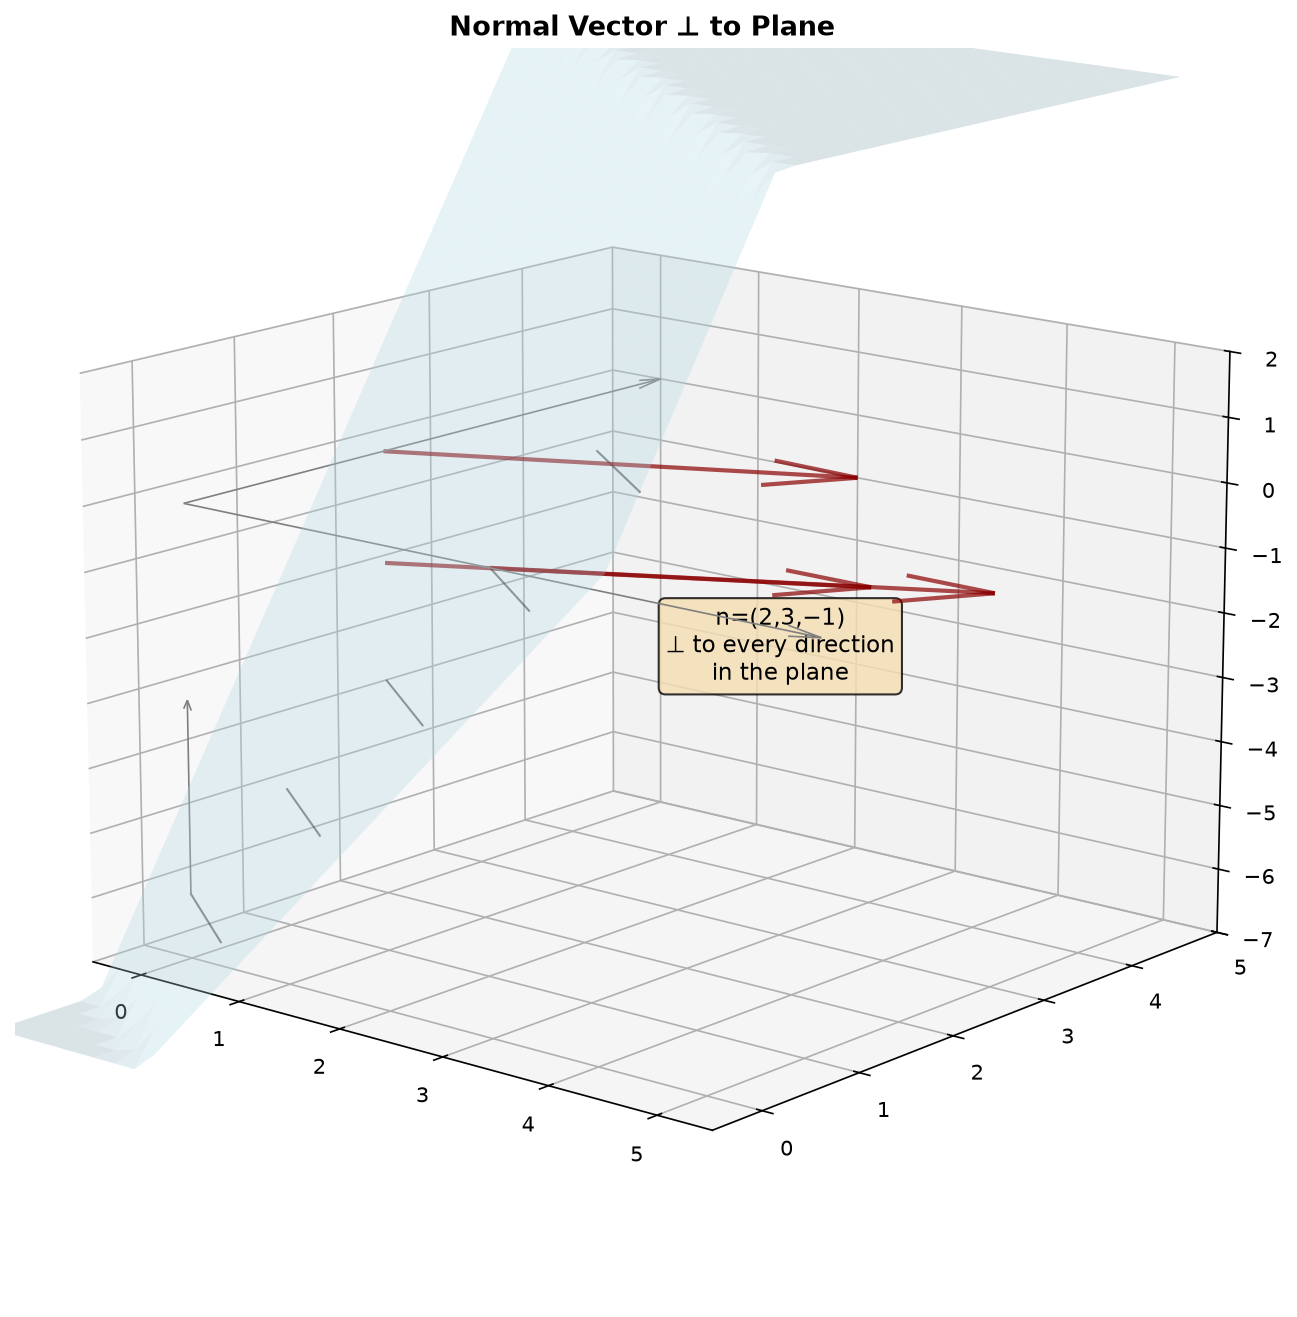
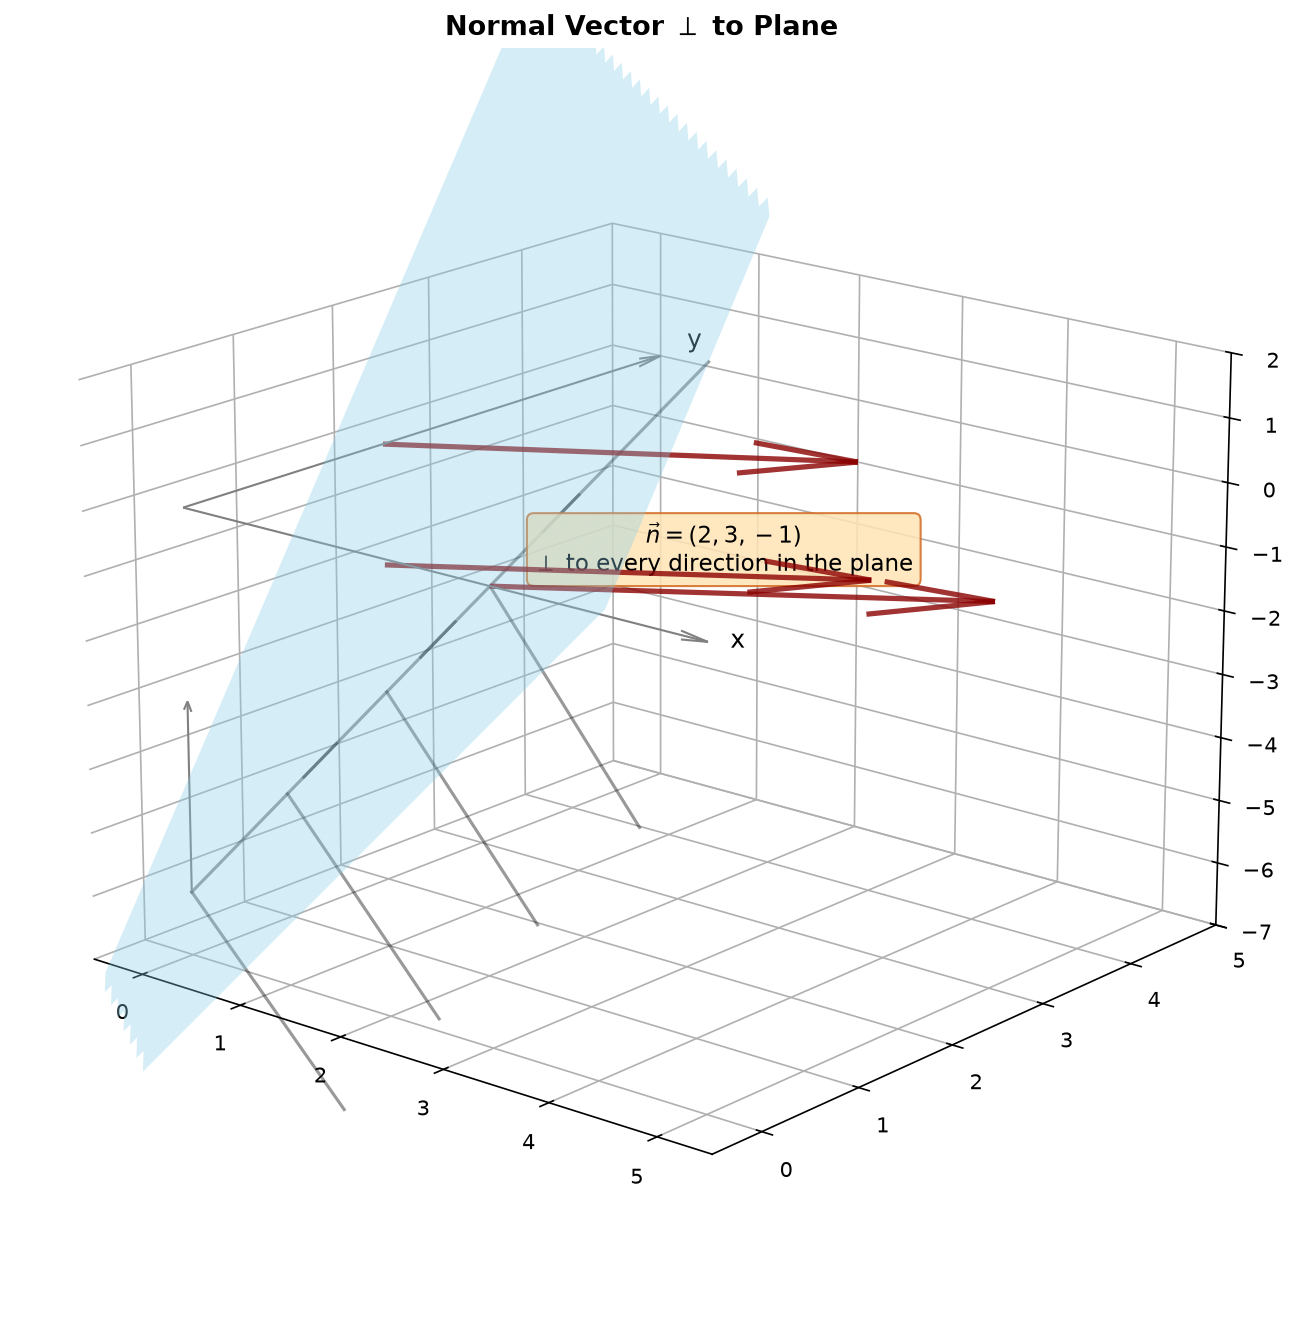
patch

diff --git a/math/sessions/phase2/graphs/0720/gen_9c.py b/math/sessions/phase2/graphs/0720/gen_9c.py
@@ -158,57 +158,75 @@ def fig_plane_intercept():
     fig = plt.figure(figsize=(11, 9))
     ax = fig.add_subplot(111, projection='3d')
     # Plane: 2x+3y-z=6  => z = 2x+3y-6
-    x = np.linspace(0, 5, 30); y = np.linspace(0, 4, 30)
+    # High-resolution mesh for smooth rendering
+    x = np.linspace(0, 5, 80); y = np.linspace(0, 4, 80)
     X, Y = np.meshgrid(x, y)
     Z = 2*X + 3*Y - 6
-    Z = np.clip(Z, -7, 5)
-    ax.plot_surface(X, Y, Z, alpha=0.4, color='lightblue')
+    # Only show plane where it's within the visible z-range
+    plane = np.ones_like(Z)
+    plane[(Z < -7) | (Z > 5)] = np.nan
+    ax.plot_surface(X, Y, plane * Z, rstride=1, cstride=1, alpha=0.5, 
+                    color='#87CEEB', shade=True, antialiased=True, edgecolor='none')
     # Intercepts
-    ax.plot([3],[0],[0],'ro',markersize=10)
-    ax.plot([0],[2],[0],'go',markersize=10)
-    ax.plot([0],[0],[-6],'mo',markersize=10)
-    ax.text(3.3,0,0.5,'(3,0,0)',fontsize=10,color='red')
-    ax.text(0,2.3,0.5,'(0,2,0)',fontsize=10,color='green')
-    ax.text(0,0.3,-6,'(0,0,−6)',fontsize=10,color='magenta')
+    ax.plot([3],[0],[0],'ro',markersize=12, zorder=10)
+    ax.plot([0],[2],[0],'go',markersize=12, zorder=10)
+    ax.plot([0],[0],[-6],'mo',markersize=12, zorder=10)
+    # Label intercepts with nice offset
+    ax.text(3.3,-0.2,-0.3,'(3,0,0)',fontsize=11,color='red',fontweight='bold')
+    ax.text(-0.3,2.3,-0.3,'(0,2,0)',fontsize=11,color='green',fontweight='bold')
+    ax.text(-0.3,0.3,-6.3,'(0,0,−6)',fontsize=11,color='magenta',fontweight='bold')
     # Normal vector
-    ax.quiver(1,1,-1, 2,3,-1, color='darkred', lw=3, arrow_length_ratio=0.15)
-    ax.text(2,3,-2,'n=(2,3,−1)',fontsize=11,color='darkred',fontweight='bold')
+    ax.quiver(1,1,-1, 2,3,-1, color='darkred', lw=3, arrow_length_ratio=0.2)
+    ax.text(2.2,3.2,-2.2,'$\\vec{n}=(2,3,-1)$',fontsize=11,color='darkred',fontweight='bold')
     # Axes
-    ax.quiver(0,0,0, 6,0,0, color='gray', arrow_length_ratio=0.05, lw=0.8)
-    ax.quiver(0,0,0, 0,5,0, color='gray', arrow_length_ratio=0.05, lw=0.8)
-    ax.quiver(0,0,0, 0,0,5, color='gray', arrow_length_ratio=0.05, lw=0.8)
+    ax.quiver(0,0,0, 6,0,0, color='gray', arrow_length_ratio=0.05, lw=1)
+    ax.quiver(0,0,0, 0,5,0, color='gray', arrow_length_ratio=0.05, lw=1)
+    ax.quiver(0,0,0, 0,0,5, color='gray', arrow_length_ratio=0.05, lw=1)
+    ax.text(5.8,0,0,'x',fontsize=12); ax.text(0,5.3,0,'y',fontsize=12); ax.text(0,0,5.5,'z',fontsize=12)
     ax.set_xlim(0,5.5); ax.set_ylim(0,5); ax.set_zlim(-7,1)
-    ax.set_xlabel('X'); ax.set_ylabel('Y'); ax.set_zlabel('Z')
-    ax.set_title('Plane: 2x+3y−z=6\nIntercepts + Normal Vector', fontsize=13, fontweight='bold')
-    ax.view_init(elev=20, azim=-55)
+    ax.set_xlabel(''); ax.set_ylabel(''); ax.set_zlabel('')
+    ax.set_title('Plane: $2x+3y-z=6$ — Intercepts + Normal Vector', fontsize=13, fontweight='bold')
+    ax.view_init(elev=22, azim=-55)
+    ax.xaxis.pane.fill = False; ax.yaxis.pane.fill = False; ax.zaxis.pane.fill = False
+    ax.xaxis.pane.set_edgecolor('w'); ax.yaxis.pane.set_edgecolor('w'); ax.zaxis.pane.set_edgecolor('w')
     save('9c-plane-intercept.png')
 
 # ============================================================
 # 9c-plane-normal.png
 # ============================================================
 def fig_plane_normal():
-    fig = plt.figure(figsize=(10, 9))
+    fig = plt.figure(figsize=(11, 9))
     ax = fig.add_subplot(111, projection='3d')
-    x = np.linspace(-1, 5, 30); y = np.linspace(-1, 5, 30)
+    x = np.linspace(-1, 5, 80); y = np.linspace(-1, 5, 80)
     X, Y = np.meshgrid(x, y)
     Z = 2*X + 3*Y - 6
-    Z = np.clip(Z, -8, 6)
-    ax.plot_surface(X, Y, Z, alpha=0.3, color='lightblue')
-    # Normal vector at several points
+    plane = np.ones_like(Z)
+    plane[(Z < -8) | (Z > 6)] = np.nan
+    ax.plot_surface(X, Y, plane * Z, rstride=1, cstride=1, alpha=0.35, 
+                    color='#87CEEB', shade=True, antialiased=True, edgecolor='none')
+    # Normal vectors at three points on the plane
     pts = [(1,1,-1),(3,0,0),(0,2,0)]
     for px,py,pz in pts:
-        ax.quiver(px,py,pz, 2,3,-1, color='darkred', lw=2, arrow_length_ratio=0.2, alpha=0.7)
-    # Lines in the plane
-    for t in np.linspace(0,4,5):
-        ax.plot([t, t+1], [0, -0.667], [-6+2*t, -6+2*(t+1)-0.667*3], 'k-', lw=1, alpha=0.5)
-    ax.quiver(0,0,0, 6,0,0, color='gray', arrow_length_ratio=0.05, lw=0.8)
-    ax.quiver(0,0,0, 0,5,0, color='gray', arrow_length_ratio=0.05, lw=0.8)
-    ax.quiver(0,0,-6, 0,0,3, color='gray', arrow_length_ratio=0.05, lw=0.8)
-    ax.text(3,3,-3,'n=(2,3,−1)\n⊥ to every direction\nin the plane',fontsize=11,ha='center',
-            bbox=dict(boxstyle='round',facecolor='wheat',alpha=0.8))
+        ax.quiver(px,py,pz, 2,3,-1, color='#8B0000', lw=2.5, arrow_length_ratio=0.25, alpha=0.8)
+    # Lines in the plane (showing vectors perpendicular to normal)
+    for t in np.linspace(0,3.5,4):
+        ax.plot([t, t+1.5], [0, 0], [-6+2*t, -6+2*(t+1.5)], 'k-', lw=1.5, alpha=0.4)
+    for t in np.linspace(0,3,4):
+        ax.plot([t, t], [0, 1.5], [-6+2*t, -6+2*t+1.5*-3], 'k-', lw=1.5, alpha=0.4)
+    # Axes
+    ax.quiver(0,0,0, 5,0,0, color='gray', arrow_length_ratio=0.05, lw=1)
+    ax.quiver(0,0,0, 0,5,0, color='gray', arrow_length_ratio=0.05, lw=1)
+    ax.quiver(0,0,-6, 0,0,3, color='gray', arrow_length_ratio=0.05, lw=1)
+    ax.text(5.2,0,0,'x',fontsize=12); ax.text(0,5.3,0,'y',fontsize=12)
+    # Annotation
+    ax.text(2, 3.5, -2, '$\\vec{n}=(2,3,-1)$\n$\\perp$ to every direction in the plane', 
+            fontsize=11, ha='center',
+            bbox=dict(boxstyle='round',facecolor='#FFE4B5',alpha=0.85,edgecolor='#D2691E'))
     ax.set_xlim(-0.5,5.5); ax.set_ylim(-0.5,5); ax.set_zlim(-7,2)
-    ax.set_title('Normal Vector ⊥ to Plane', fontsize=13, fontweight='bold')
-    ax.view_init(elev=15, azim=-50)
+    ax.set_title('Normal Vector $\\perp$ to Plane', fontsize=13, fontweight='bold')
+    ax.view_init(elev=18, azim=-50)
+    ax.xaxis.pane.fill = False; ax.yaxis.pane.fill = False; ax.zaxis.pane.fill = False
+    ax.xaxis.pane.set_edgecolor('w'); ax.yaxis.pane.set_edgecolor('w'); ax.zaxis.pane.set_edgecolor('w')
     save('9c-plane-normal.png')
 
 # ============================================================
@@ -221,22 +239,28 @@ def fig_step_plane():
               'Step 3: Plane 6x+3y+2z=6\nx/1+y/2+z/3=1']
     for i in range(3):
         ax = fig.add_subplot(1, 3, i+1, projection='3d')
-        ax.plot([1],[0],[0],'ro',markersize=8)
-        ax.plot([0],[2],[0],'go',markersize=8)
-        ax.plot([0],[0],[3],'mo',markersize=8)
+        ax.plot([1],[0],[0],'ro',markersize=10)
+        ax.plot([0],[2],[0],'go',markersize=10)
+        ax.plot([0],[0],[3],'mo',markersize=10)
+        ax.text(1,0,0.3,'A',fontsize=11,color='red',fontweight='bold')
+        ax.text(0,2,0.3,'B',fontsize=11,color='green',fontweight='bold')
+        ax.text(0,0,3.3,'C',fontsize=11,color='magenta',fontweight='bold')
         ax.quiver(0,0,0, 5,0,0, color='gray', arrow_length_ratio=0.05, lw=0.5)
         ax.quiver(0,0,0, 0,4,0, color='gray', arrow_length_ratio=0.05, lw=0.5)
         ax.quiver(0,0,0, 0,0,5, color='gray', arrow_length_ratio=0.05, lw=0.5)
         if i >= 1:
-            ax.quiver(1,0,0, -1,2,0, color='orange', lw=2)
-            ax.quiver(1,0,0, -1,0,3, color='orange', lw=2)
-            ax.quiver(1,0,0, 6,3,2, color='darkred', lw=3, arrow_length_ratio=0.1)
-            ax.text(5,2,1.5,'n=(6,3,2)',fontsize=9,color='darkred')
+            ax.quiver(1,0,0, -1,2,0, color='orange', lw=2.5, arrow_length_ratio=0.2)
+            ax.quiver(1,0,0, -1,0,3, color='orange', lw=2.5, arrow_length_ratio=0.2)
+            ax.quiver(1,0,0, 6,3,2, color='darkred', lw=3.5, arrow_length_ratio=0.2)
+            ax.text(4,1.5,1.5,'$\\vec{n}=(6,3,2)$',fontsize=9,color='darkred',fontweight='bold')
+            ax.text(1.5,1.5,1,'$\\vec{AB}$',fontsize=8,color='orange')
+            ax.text(1.5,0.5,2,'$\\vec{AC}$',fontsize=8,color='orange')
         if i == 2:
-            xx,yy = np.meshgrid(np.linspace(0,1.2,15), np.linspace(0,2.2,15))
+            xx,yy = np.meshgrid(np.linspace(0,1.5,40), np.linspace(0,2.5,40))
             zz = (6-6*xx-3*yy)/2
             zz[zz<0] = np.nan
-            ax.plot_surface(xx, yy, zz, alpha=0.4, color='lightblue')
+            zz[zz>4] = np.nan
+            ax.plot_surface(xx, yy, zz, alpha=0.45, color='#87CEEB', shade=True, edgecolor='none')
         ax.set_title(titles[i], fontweight='bold', fontsize=10)
         ax.set_xlim(-0.2,5); ax.set_ylim(-0.2,4); ax.set_zlim(-0.2,5)
         ax.set_xlabel('X'); ax.set_ylabel('Y'); ax.set_zlabel('Z')
@@ -248,30 +272,49 @@ def fig_step_plane():
 # 9c-point-plane-distance.png
 # ============================================================
 def fig_point_plane_distance():
-    fig = plt.figure(figsize=(10, 9))
+    fig = plt.figure(figsize=(11, 9))
     ax = fig.add_subplot(111, projection='3d')
-    xx,yy = np.meshgrid(np.linspace(-1,4,20), np.linspace(-1,4,20))
-    zz = (6-2*xx-3*yy)/1
-    zz = np.clip(zz, -1, 8)
-    ax.plot_surface(xx, yy, zz, alpha=0.3, color='lightblue')
+    # Plane: 2x+3y+z=6 → z = 6-2x-3y
+    # Use a domain that shows the relevant portion
+    xx,yy = np.meshgrid(np.linspace(-0.5,4,60), np.linspace(-0.5,4,60))
+    zz = 6 - 2*xx - 3*yy
+    # Mask out extreme values to keep a clean visible region
+    zz_masked = zz.copy()
+    zz_masked[(zz < -0.5) | (zz > 7)] = np.nan
+    ax.plot_surface(xx, yy, zz_masked, alpha=0.35, color='#87CEEB', 
+                    shade=True, antialiased=True, edgecolor='none')
     # Point P(1,2,3)
-    ax.plot([1],[2],[3],'ro',markersize=10,zorder=5)
-    ax.text(1.3,2.3,3.5,'P(1,2,3)',fontsize=11,color='red',fontweight='bold')
-    # Perpendicular line
-    # Foot: solve param
+    ax.plot([1],[2],[3],'ro',markersize=12, zorder=10)
+    ax.text(1.3,2.3,3.5,'$P(1,2,3)$',fontsize=12,color='red',fontweight='bold')
+    # Foot of perpendicular
     n = np.array([2,3,1])
     p0 = np.array([1,2,3])
     d_const = 6
-    t = (d_const - np.dot(n, p0)) / np.dot(n, n)
-    foot = p0 + t*n
-    ax.plot([1,foot[0]],[2,foot[1]],[3,foot[2]],'r--',lw=2.5)
-    ax.plot([foot[0]],[foot[1]],[foot[2]],'go',markersize=8)
-    ax.text(foot[0]+0.2,foot[1]+0.2,foot[2],f'D=5/√14≈1.336',fontsize=10,color='red')
-    ax.quiver(1,1,-1, 2,3,1, color='purple', lw=2, arrow_length_ratio=0.2)
-    ax.set_xlim(-0.5,4); ax.set_ylim(-0.5,4); ax.set_zlim(-1,6)
-    ax.set_xlabel('X'); ax.set_ylabel('Y'); ax.set_zlabel('Z')
-    ax.set_title('Point-to-Plane Distance\n$2x+3y+z=6$, D=5/√14', fontsize=13, fontweight='bold')
-    ax.view_init(elev=20, azim=-55)
+    t_val = (d_const - np.dot(n, p0)) / np.dot(n, n)
+    foot = p0 + t_val * n
+    # Perpendicular line (dashed, thick)  
+    ax.plot([1,foot[0]],[2,foot[1]],[3,foot[2]],'r--',lw=3)
+    ax.plot([foot[0]],[foot[1]],[foot[2]],'go',markersize=12, zorder=10)
+    # Distance label
+    mid = (p0 + foot) / 2
+    ax.text(mid[0]+0.1, mid[1]+0.1, mid[2], '$d = \\frac{5}{\\sqrt{14}} \\approx 1.336$', 
+            fontsize=11, color='red', fontweight='bold',
+            bbox=dict(boxstyle='round',facecolor='white',alpha=0.7,edgecolor='red'))
+    # Normal vector
+    ax.quiver(foot[0],foot[1],foot[2], 2,3,1, color='purple', lw=2.5, arrow_length_ratio=0.2,
+             label='$\\vec{n}=(2,3,1)$')
+    ax.legend(fontsize=10, loc='upper right')
+    # Axes
+    ax.quiver(0,0,0, 5,0,0, color='gray', arrow_length_ratio=0.05, lw=0.8)
+    ax.quiver(0,0,0, 0,5,0, color='gray', arrow_length_ratio=0.05, lw=0.8)
+    ax.quiver(0,0,0, 0,0,5, color='gray', arrow_length_ratio=0.05, lw=0.8)
+    ax.text(5.2,0,0,'x',fontsize=12); ax.text(0,5.3,0,'y',fontsize=12); ax.text(0,0,5.5,'z',fontsize=12)
+    ax.set_xlim(-0.5,4.5); ax.set_ylim(-0.5,4.5); ax.set_zlim(-0.5,6)
+    ax.set_title('Point-to-Plane Distance: $D = \\frac{|2x_0+3y_0+z_0-6|}{\\sqrt{2^2+3^2+1^2}}$', 
+                fontsize=12, fontweight='bold')
+    ax.view_init(elev=22, azim=-55)
+    ax.xaxis.pane.fill = False; ax.yaxis.pane.fill = False; ax.zaxis.pane.fill = False
+    ax.xaxis.pane.set_edgecolor('w'); ax.yaxis.pane.set_edgecolor('w'); ax.zaxis.pane.set_edgecolor('w')
     save('9c-point-plane-distance.png')
 
 # ============================================================
